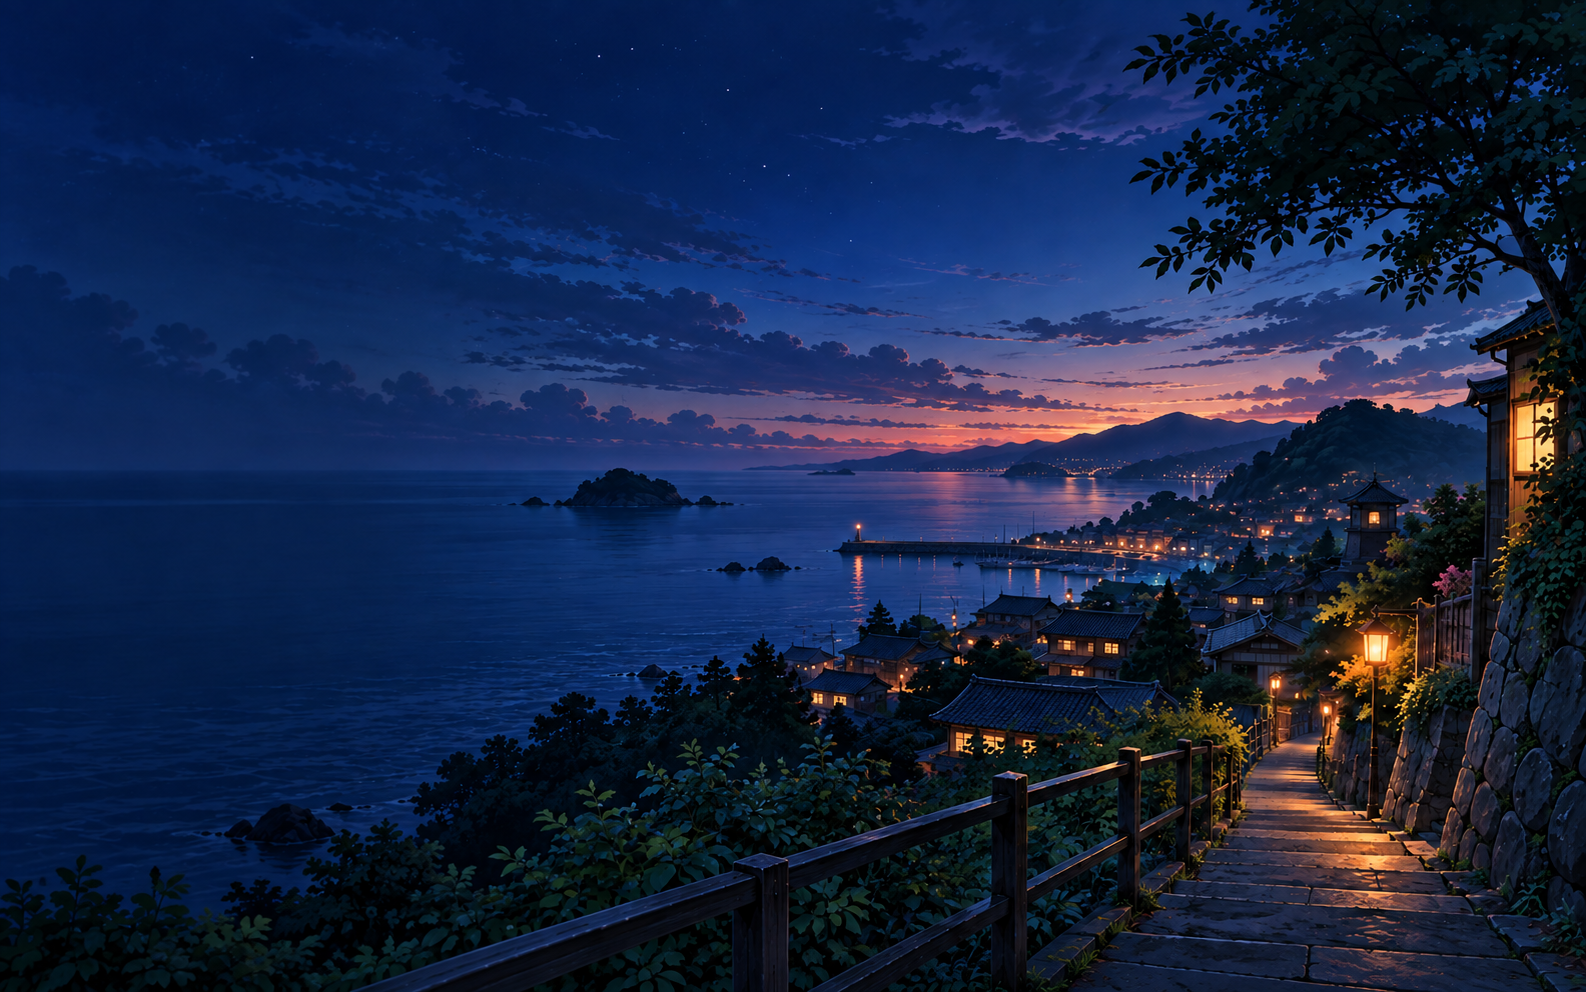
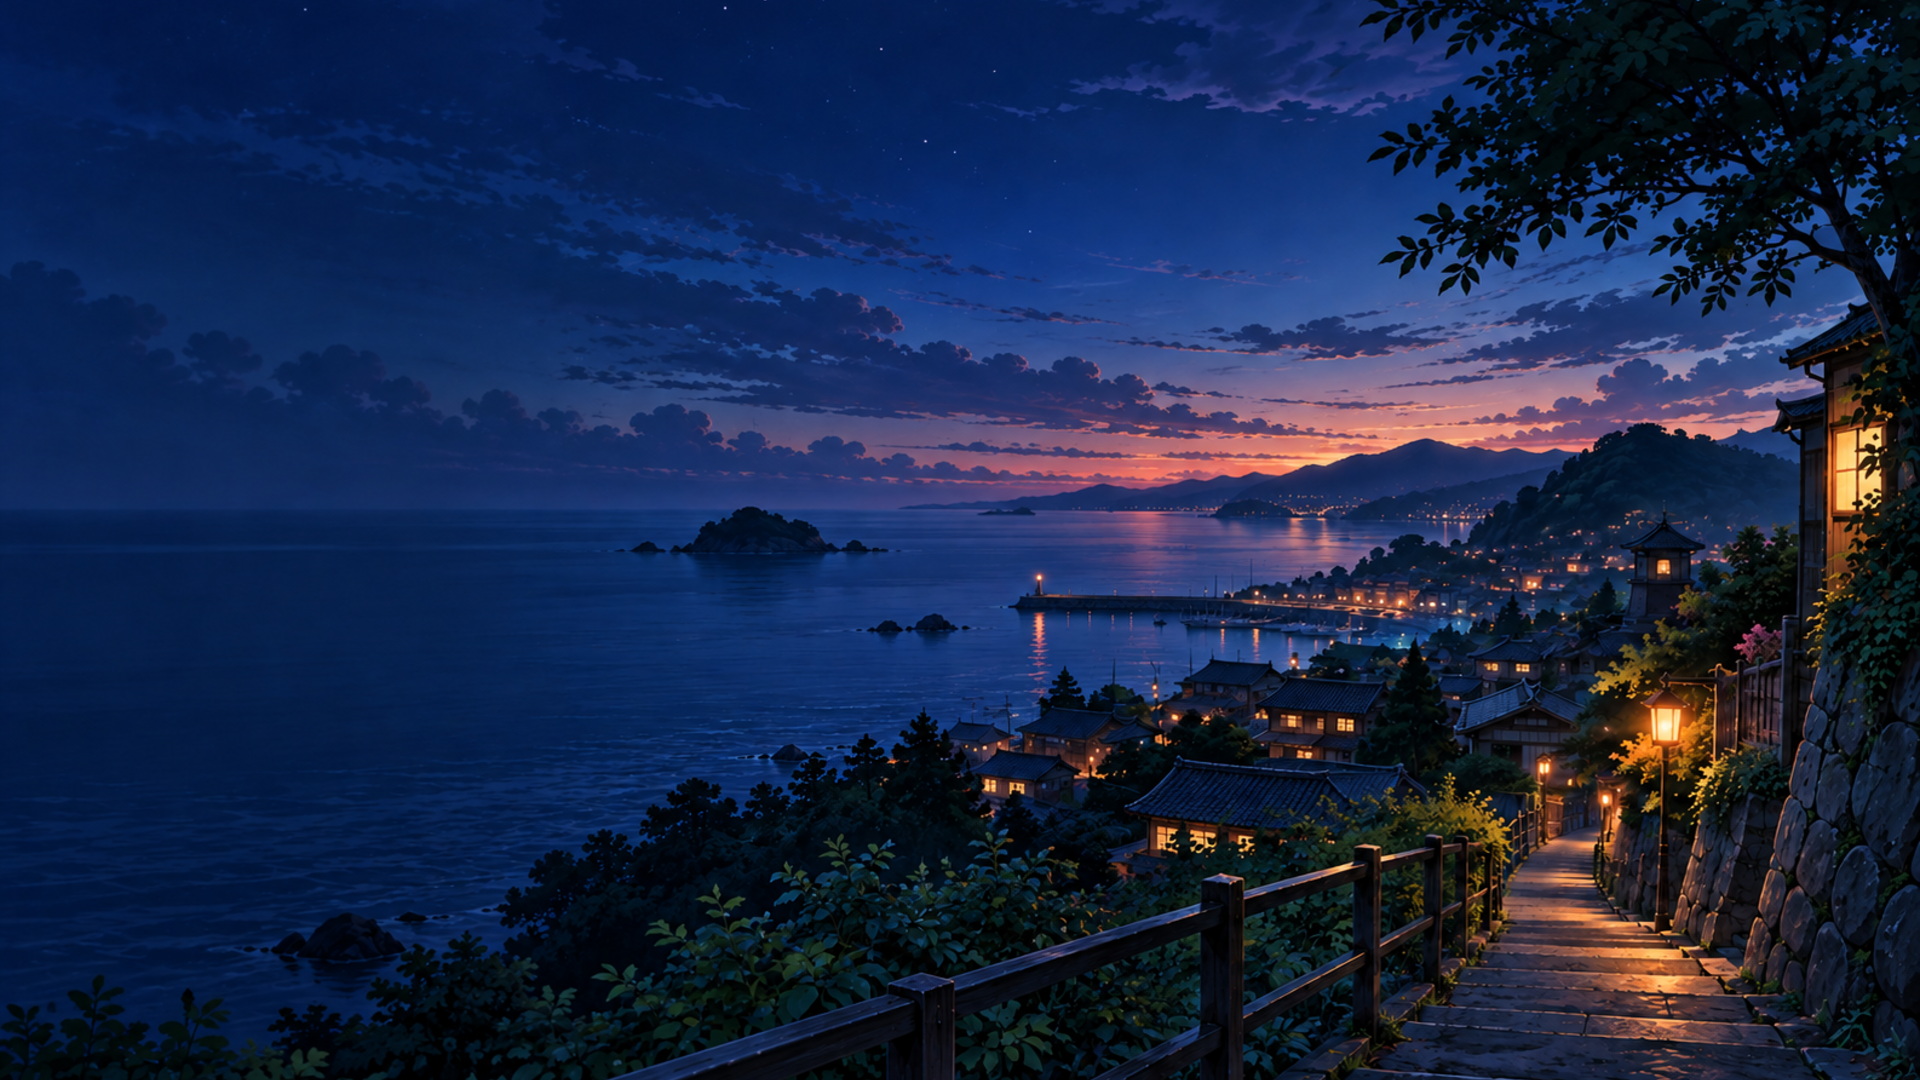
fix(riscv-image): boot into a desktop that is usable without hand-holding
Six defects, all found on the board:

* The build died silently right after the phase-8 banner. mke2fs -V prints
  several lines, head exited after the first, the resulting SIGPIPE made the
  pipeline return 141 under pipefail, and set -e ended the build with no
  message after the image had already been written. Read the first line with
  sed instead, and stop merging stderr into the systemd-sysusers dry-run
  output, which made every build look unconverged under set -x.

* A stale firefox-esr archive left in apt's cache made the package audit die,
  because an archive the mirror has since superseded has no owner in the
  retained indexes. Only an archive that belongs to the installed set is now
  treated as a provenance error.

* Firefox reported "Your Firefox profile cannot be loaded" even with a valid
  profile directory: it resolves --profile through the registry in
  ~/.mozilla/firefox/profiles.ini, which the image never shipped. Ship it and
  rewrite it before every launch.

* gdk-pixbuf picks its loader through the shared MIME database, so without
  /usr/share/mime/mime.cache every PNG failed to load and the wallpaper, panel
  icons and application icons were all blank. Generate it for every desktop
  profile.

* pcmanfm's scaling modes fail silently on the fbdev server, so the wallpaper
  was never painted; ship a screen-sized image and center it. The panel is
  opaque because a transparent one costs a read-modify-write per redraw on
[…]

diff --git a/tools/riscv/tests/test_debian_rootfs.py b/tools/riscv/tests/test_debian_rootfs.py
@@ -3099,7 +3099,11 @@ WantedBy=multi-user.target
         panel = stage / "home/asterinas/.config/lxpanel/Asterinas/panels/panel"
         self.assertEqual(wallpaper.read_bytes(), DESKTOP_WALLPAPER.read_bytes())
         self.assertEqual(anime_wallpaper.read_bytes(), DESKTOP_ANIME_WALLPAPER.read_bytes())
-        self.assertIn("wallpaper_mode=crop", pcmanfm.read_text())
+        # `center` keeps the wallpaper at its native size instead of scaling it.
+        # pcmanfm's scaling modes (crop/stretch) fail silently on the guest's
+        # fbdev X server: the desktop keeps `desktop_bg` and never paints the
+        # image, which is why the shipped wallpaper is screen-sized.
+        self.assertIn("wallpaper_mode=center", pcmanfm.read_text())
         self.assertIn("desktop-anime-wallpaper.png", pcmanfm.read_text())
         self.assertIn("edge=bottom", panel.read_text())
         for name in ("browser", "files", "terminal"):

diff --git a/tools/riscv/debian/rootfs/profiles.py b/tools/riscv/debian/rootfs/profiles.py
@@ -407,6 +407,11 @@ BROWSER_WEB_DESKTOP_PACKAGES = (
     "zip",
     "unzip",
     "dbus-x11",
+    # The online desktop is the board's daily-use environment, so it has to be
+    # able to write and build a program without a package download first:
+    # gcc/make were present but there was no editor and no C++ front end.
+    "vim",
+    "g++",
 )
 
 
